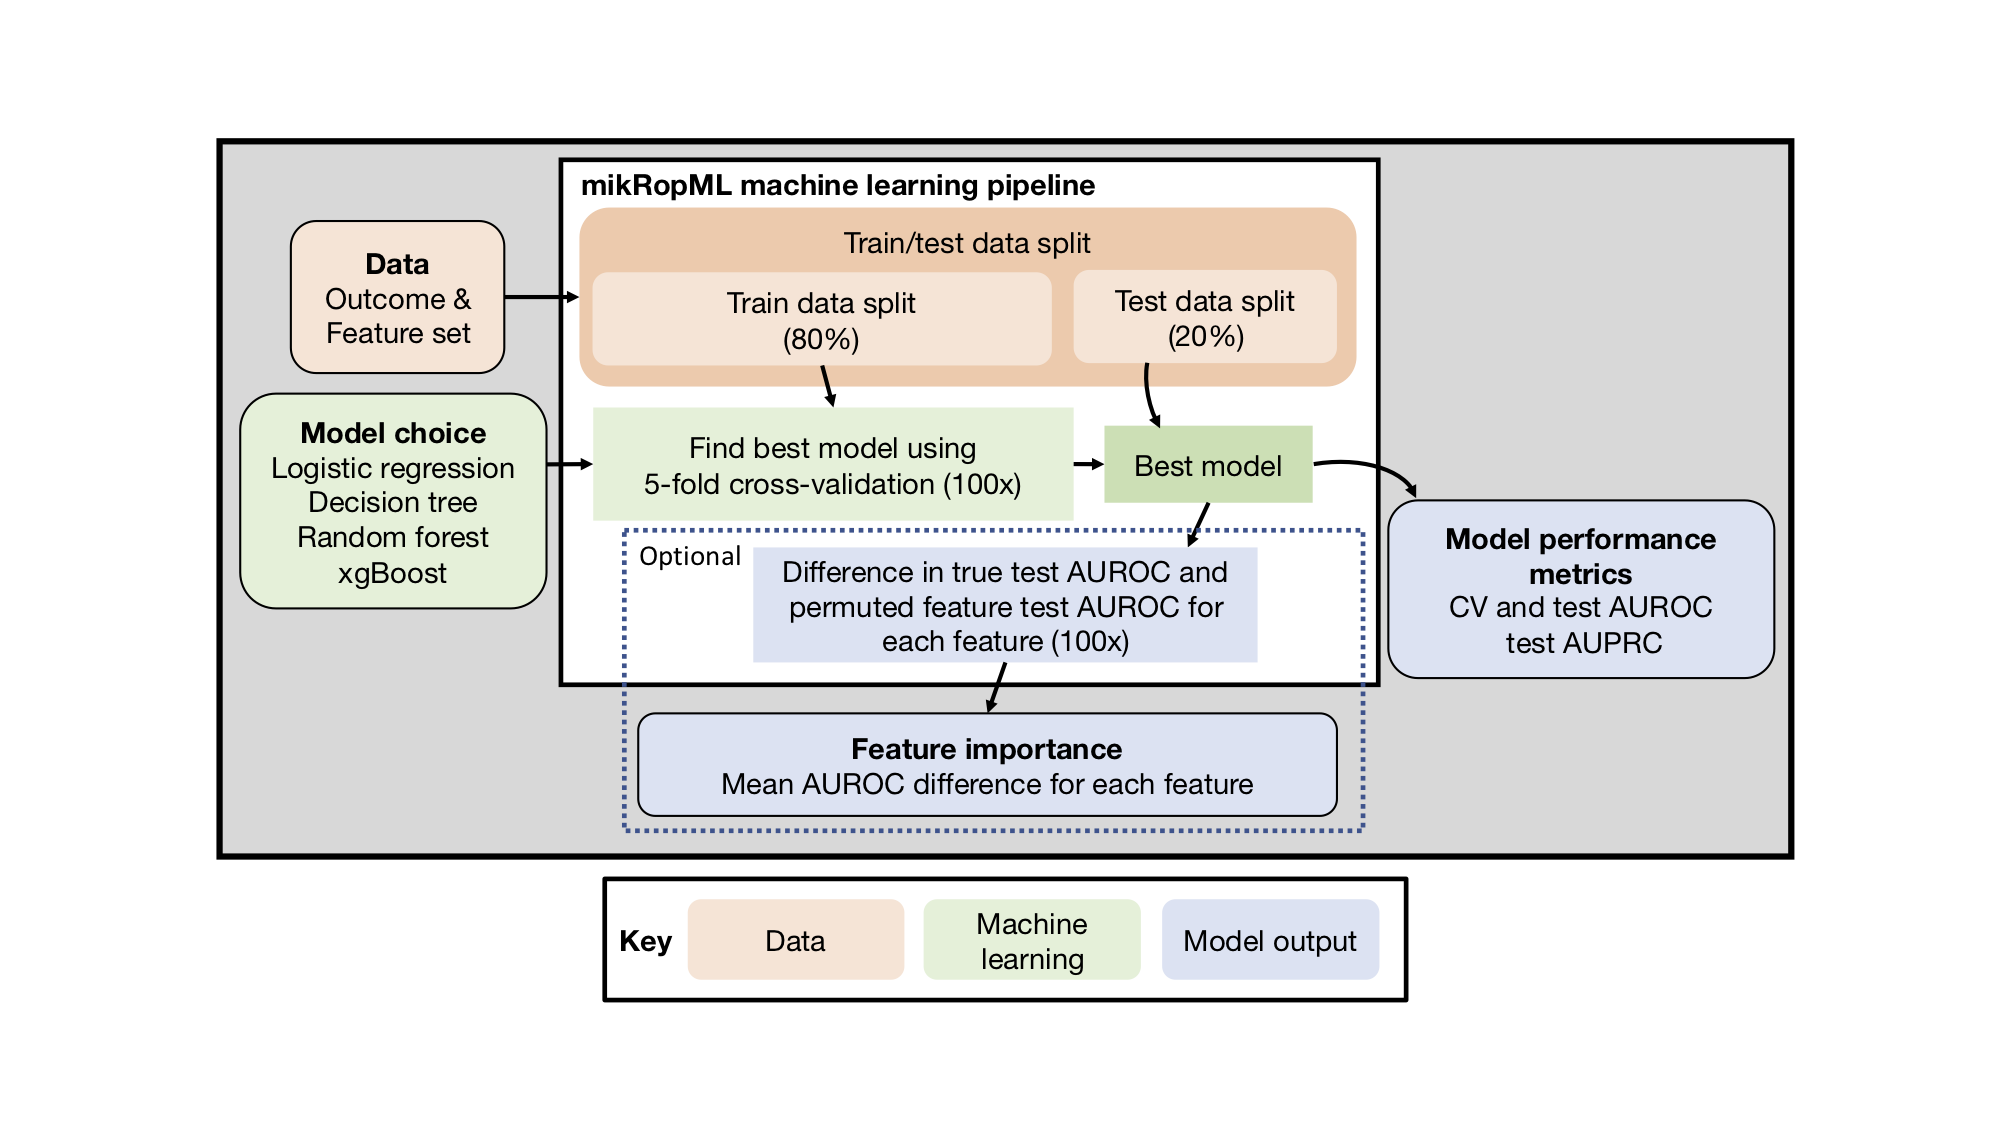
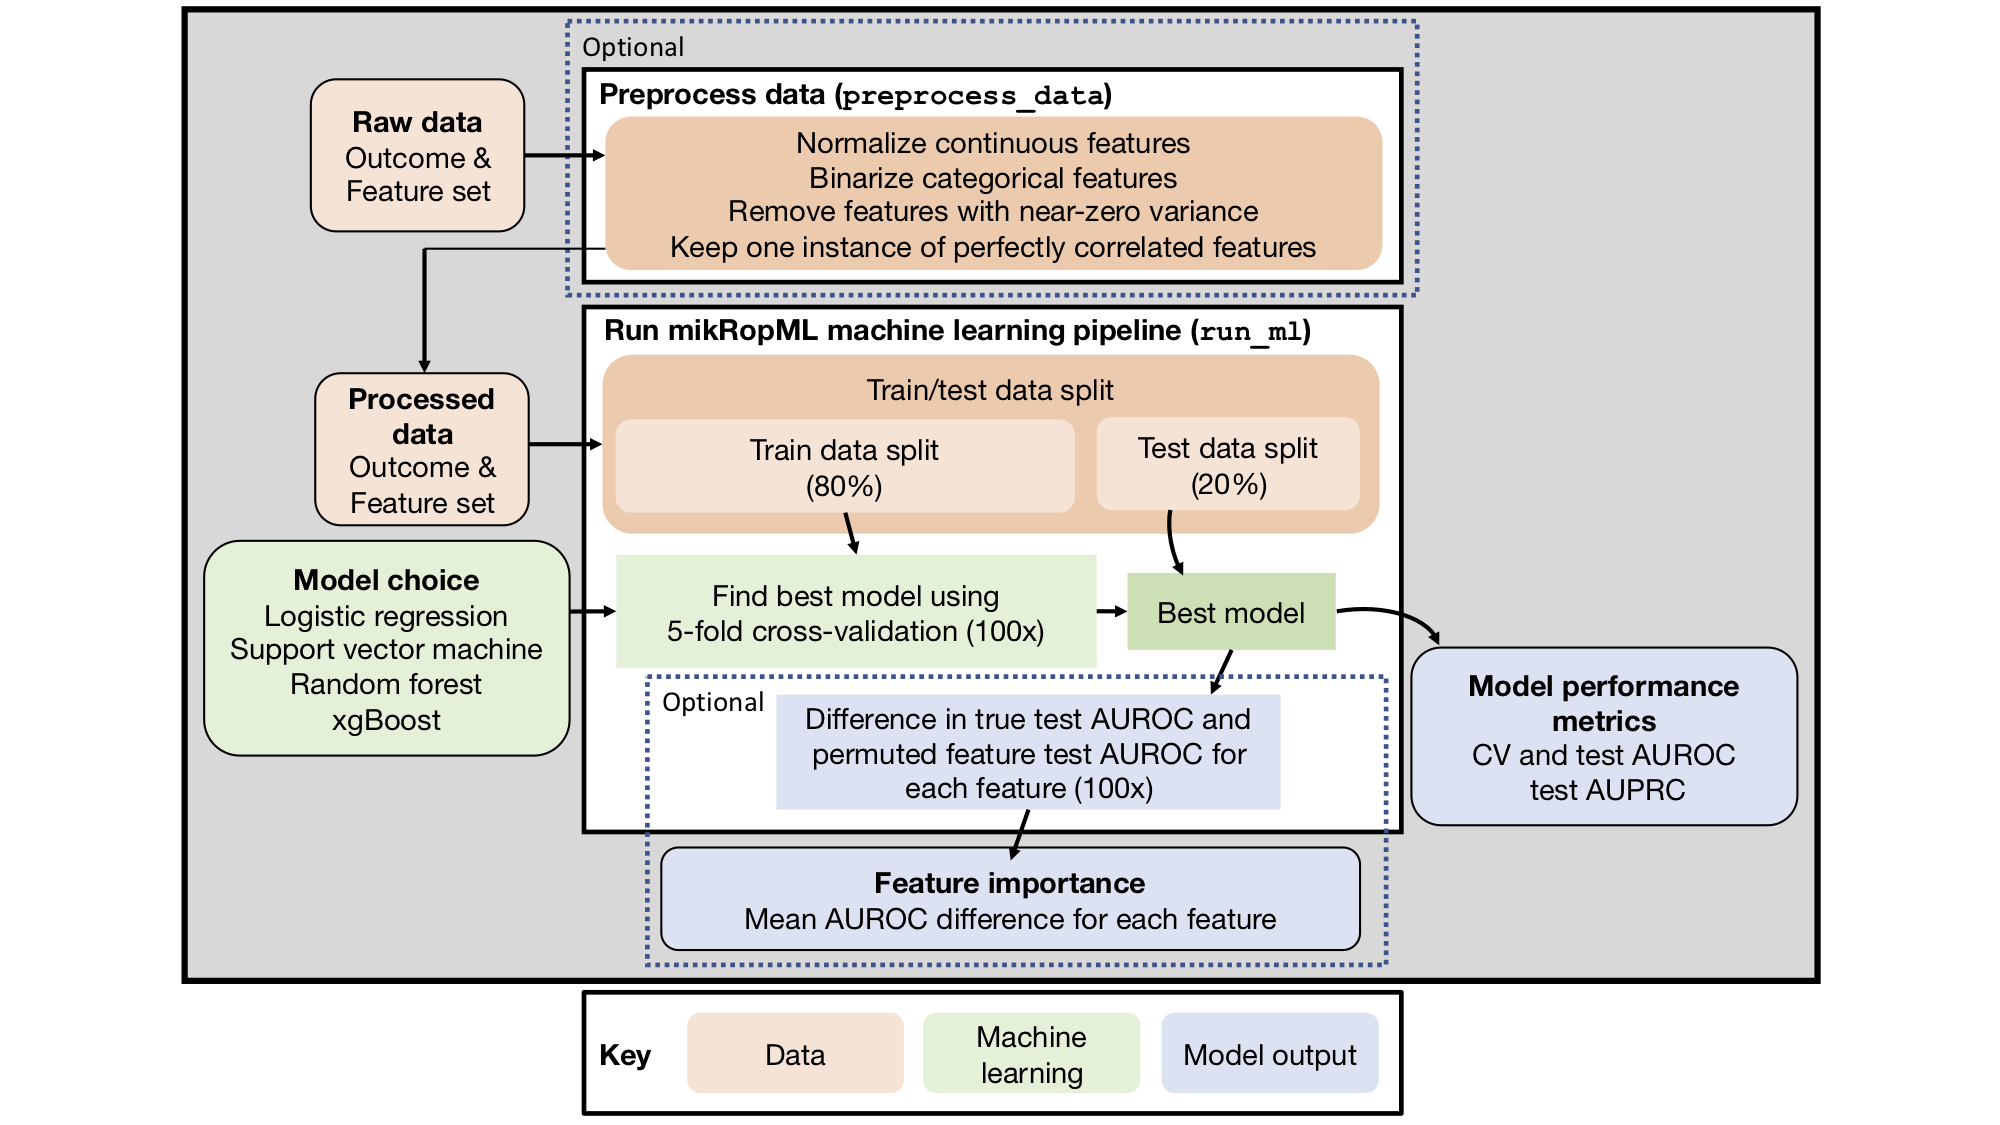
Edit paper

diff --git a/vignettes/paper.md b/vignettes/paper.md
@@ -19,6 +19,9 @@ authors:
   - name: Kelly L. Sovacool
     orcid: 0000-0003-3283-829X
     affiliation: 1
+  - name: Evan Snitkin
+    orcid: 0000-0001-8409-278X
+    affiliation: 3;5
   - name: Jenna Wiens
     orcid: 0000-0002-1057-7722
     affiliation: 2
@@ -27,13 +30,15 @@ authors:
     affiliation: 3
 affiliations:
   - name: Department of Computational Medicine & Bioinformatics, University of Michigan
-    index: 1q
+    index: 1
   - name: Department of Electrical Engineering & Computer Science, University of Michigan
     index: 2
   - name: Department of Microbiology & Immunology, University of Michigan
     index: 3
   - name: Merck & Co., Inc.
     index: 4
+  - name: Department of Internal Medicine/Division of Infectious Diseases, University of Michigan
+    index: 5
 date: 2020
 bibliography: paper.bib
 vignette: >
@@ -47,56 +52,82 @@ vignette: >
 
 # Summary
 
-Machine learning (ML) for classification of data into groups based on pre-determined criteria is being used to make decisions in healthcare, economics, criminal justice and more. 
+Machine learning (ML) for classification of data into groups based on a set of features is being used to make decisions in healthcare, economics, criminal justice and more. 
 However, implementing a robust ML classification pipeline can be time-consuming, confusing, and difficult. 
-Here, we present mikRopML (prononced "meek-ROPE em el"), an easy-to-use R package that acts as a wrapper around the R caret package and can be used for binary classification problems using logistic regression, random forest, xgBoost, and support vector machines. mikRopML is available on [GitHub/CRAN] (link). 
+Here, we present mikRopML (prononced "meek-ROPE em el"), an easy-to-use R package that acts as a wrapper around the R caret package.
+mikRopML can be used for binary classification problems using logistic regression, random forest, xgBoost, and support vector machines.
+It is available on [GitHub](https://github.com/SchlossLab/mikRopML/) and CRAN [**link to CRAN**]. 
 
 # Statement of need
 
-Machine learning (ML) is widely used to analyze large datasets from fields ranging from biology to gender studies. 
-Several packages including `caret` and `tidymodels` in R [@kuhn_building_2008] and `scikitlearn` in Python [@pedregosa_scikit-learn_2011] allow you to implement your own ML algorithms; however, creating a robust machine learning pipeline can be overwhelming, particularly for beginners. 
+Machine learning (ML) is widely used to analyze large datasets in fields ranging from biology to gender studies. 
+Several packages including `caret` [@kuhn_building_2008] and `tidymodels` [@kuhn_tidymodels_2020] in R and `scikitlearn` [@pedregosa_scikit-learn_2011] in Python allow you to implement your own ML algorithms; however, creating a robust machine learning pipeline can be overwhelming, particularly for beginners. 
 ML requires data pre-processing, cross-validation, testing, model evaluation, and often interpretation of why the model makes a certain prediction. 
 Performing these steps using the correct methodology is extremely important as failure to implement a robust ML pipeline can result in incorrect and misleading results [@teschendorff_avoiding_2019]. 
-To allow robust ML analyses and an easily accessible ML pipeline to a broader range of researchers, we created mikRopML (**[insert path to GitHub or CRAN]**), an easy-to-use package in R [@r_core_team_r_2020] that implements the Topçuoğlu _et al._ [@topcuoglu_framework_2020] ML framework for binary classification problems using logistic regression [@paul_liblinear_2017], random forest [@liaw_classication_2002], xgBoost [@chen_xgboost_2020], or support vector machines [**cite that pkg**]. 
+To allow a broader range of researchers to perform robust ML analyses, we created [mikRopML](https://github.com/SchlossLab/mikRopML/), an easy-to-use package in R [@r_core_team_r_2020] that implements the Topçuoğlu _et al._ [@topcuoglu_framework_2020] ML framework for binary classification problems using logistic regression [@paul_liblinear_2017], random forest [@liaw_classication_2002], xgBoost [@chen_xgboost_2020], or support vector machine with a radial basis kernel [@karatzoglou_kernlab_2004]. 
 Furthermore, we provide a data pre-processing function based on the FIDDLE framework outlined in Tang et al. [@tang_fiddle_2020].
 
 While Topçuoğlu _et al._ [@topcuoglu_framework_2020] focused specifically on ML for microbiome data, the framework is generalizable to performing ML on other types of data as well. 
 For instance, we have used the mikRopML framework to identify differences in genomic and clinical features associated with infection and colonization of a bacterial pathogen [@lapp_machine_2020]. 
-Furthermore, we used the same framework to study gender representation and bias in journal articles [**cite Ada’s paper**]. 
-Thus, this package can be used to study questions as diverse as what gut bacteria are associated with cancer to whether there are differences authorship gender representation in journal articles.
+Additionally, we used the same framework to study gender representation and bias in journal articles [**cite Ada’s paper**]. 
+Thus, this package can be used to study questions as diverse as what gut bacteria are associated with cancer to whether there are authorship gender representation differences in journal articles.
 
 # mikRopML package
 
-mikRopML has one main function called `run_ml` that minimally takes in a data frame including a binary outcome and features, and model choice (logistic regression [@paul_liblinear_2017], random forest [@liaw_classication_2002], or xgBoost [@chen_xgboost_2020]). 
-It trains and tests the data using the `caret` R package [@kuhn_building_2008], evaluates the model using the `PRROC` R package [@grau_prroc_2015], and optionally quantifies feature importance. 
-The output includes the best model, two model evaluation metrics (AUROC and AUPRC), and optional feature importances (Figure 1). 
-Feature importance allows the users to more easily identify features that have a large impact on model performance, and is thus particularly useful for model interpretation [@topcuoglu_framework_2020]. 
-Our vignette [link to vignette] contains a comprehensive tutorial on how to use mikRopML.
+The mikRopML package has functions to preprocess the data and run ML. 
+We also provide a snakemake workflow [@koster_snakemakescalable_2012] to enable users to run ML with multiple different train/test data splits. 
+The output of these runs can be plotted using functions in the package.
 
-![Figure 1. MikRopML pipeline](mikRopML-pipeline.png)
+## Preprocessing data
 
-We also provide a function that pre-processes features (`preprocess_data`) using several different functions from the `caret` package. 
+We provide a function (`preprocess_data`) that preprocesses features using several different functions from the `caret` package. 
 The `preprocess_data` function takes continuous and categorical data, re-factors categorical data into binary features, and provides options to normalize continuous data, remove features with near-zero variance, and remove correlated features. 
-We chose the default options based on those implemented in FIDDLE [@tang_fiddle_2020], and we direct users to this paper for more information on data pre-processing prior to ML.
+We chose the default options based on best practices implemented in FIDDLE [@tang_fiddle_2020], and we direct users to this paper for more information on data preprocessing prior to ML. 
+More details on how to use the mikRopML `preprocess_data` function can be found in the vignette [**link to preprocessing data vignette**].
 
-mikRopML is written in R [@r_core_team_r_2020] and depends on several packages: PRROC [@grau_prroc_2015], dplyr [@wickham_dplyr_2020], caret [@kuhn_building_2008], LiblineaR [@paul_liblinear_2017], rlang [@henry_rlang_2020]. 
-<!-- do we need to list all these? maybe should mention some suggests are needed depending on the ml method.  -->
-<!-- say something about optional parallelization with doParallel & foreach in caret training -->
-Packages that our package suggests are: testthat [@wickham_testthat_2011], knitr [@xie_dynamic_2015; @xie__aut_knitr_2020], rmarkdown [@allaire_rmarkdown_2020; @xie_r_2018], future.apply [@bengtsson_futureapply_2020], randomForest [@liaw_classication_2002], kernlab [@karatzoglou_kernlab_2004], rpart [@therneau_rpart_2019], xgboost [@chen_xgboost_2020], doParallel [@ooi_doparallel_2019], foreach [@ooi_foreach_2020].
+## Running ML
+
+<!-- TODO: add decision tree -->
+The main function in mikRopML (`run_ml`) minimally takes in a data frame including a binary outcome and features, and model choice. mikRopML currently supports logistic regression [@paul_liblinear_2017], support vector machine with a radial basis kernel [@karatzoglou_kernlab_2004], decision trees [@therneau_rpart_2019], random forest [@liaw_classication_2002], and xgBoost [@chen_xgboost_2020]. 
+It trains and tests the data using the `caret` R package [@kuhn_building_2008], evaluates the model using the `PRROC` R package [@grau_prroc_2015], and optionally quantifies feature importance.
+<!-- should we add something in about splitting into train/test sets based on group? not sure it's super important to include here, although it's a nice feature -->
+The output includes the best model, two model evaluation metrics (area under the receiver operating characteristics curve - AUROC, and area under the precision recall curve - AUPRC), and optional feature importances (Figure 1). 
+The quantification of feature importance allows users to more easily identify features that have a large impact on model performance, and is thus particularly useful for model interpretation [@topcuoglu_framework_2020]. 
+Our vignette [**link to vignette**] contains a comprehensive tutorial on how to use the `run_ml` function.
+
+![Figure 1. MikRopML pipeline](mikRopML-pipeline.png){width=100%}
+
+## Workflow for running mikRopML with several different train/test splits
 
 In addition to simply performing ML on a single train/test split, we have found that it is important to investigate how model performance differs depending on the train and test set used [@topcuoglu_framework_2020; @lapp_machine_2020]. 
-Therefore, we provide an example of how to integrate mikRopML into a snakemake workflow [link to snakemake workflow example] that runs machine learning 100 times and outputs summary information about model performance and feature importance.
+Therefore, we provide an example of how to integrate mikRopML into a snakemake workflow [**link to snakemake workflow example**] that runs machine learning 100 times and outputs summary information about model performance and feature importance.
+
+## Plotting ML results
+
+One particularly important aspect of ML is hyperparameter tuning. 
+Therefore, we provide a function (**insert name of function**) to plot the cross-validation AUROC of models built using different train/test splits. 
+This allows the user to tune the model to the correct hyperparameters, as explained in the [snakemake workflow?] vignette.
+We also provide summary plots of test AUROC and AUPRC as well as feature importance.
+[*Update this section if we don't actually include these plots!*]
+
+## Dependencies
+
+mikRopML is written in R [@r_core_team_r_2020] and depends on several packages: PRROC [@grau_prroc_2015], dplyr [@wickham_dplyr_2020], caret [@kuhn_building_2008], LiblineaR [@paul_liblinear_2017], rlang [@henry_rlang_2020]. 
+<!-- do we need to list all these? -->
+Certain models require additional packages. 
+kernlab [@karatzoglou_kernlab_2004] is required for support vector machine, rpart [@therneau_rpart_2019] is required for decision trees, randomForest [@liaw_classication_2002] is required for random forest, and xgboost [@chen_xgboost_2020] is required for xgBoost. 
+We also allow for parallelization of model training using doParallel [@ooi_doparallel_2019] and foreach [@ooi_foreach_2020], as well as parallelization of the base *apply family of functions using future.apply [@bengtsson_futureapply_2020].
+Additional suggested packages include: testthat [@wickham_testthat_2011], knitr [@xie_dynamic_2015; @xie__aut_knitr_2020], and rmarkdown [@allaire_rmarkdown_2020; @xie_r_2018].
 
 # Acknowledgements
 
 We'd like to thank members of the Schloss Lab who participated in code clubs related to the initial development of the pipeline. 
 
 # Funding
-<!--TODO Kelly and others add funding -->
+<!--TODO Others add funding if needed -->
+KLS received support from the NIH Training Program in Bioinformatics (T32 GM070449).
 ZL received support from the National Science Foundation Graduate Research Fellowship Program under Grant No. DGE 1256260. 
 Any opinions, findings, and conclusions or recommendations expressed in this material are those of the authors and do not necessarily reflect the views of the National Science Foundation.
-
-KLS received support from the NIH Training Program in Bioinformatics (T32 GM070449).
 
 # Author contributions
 
